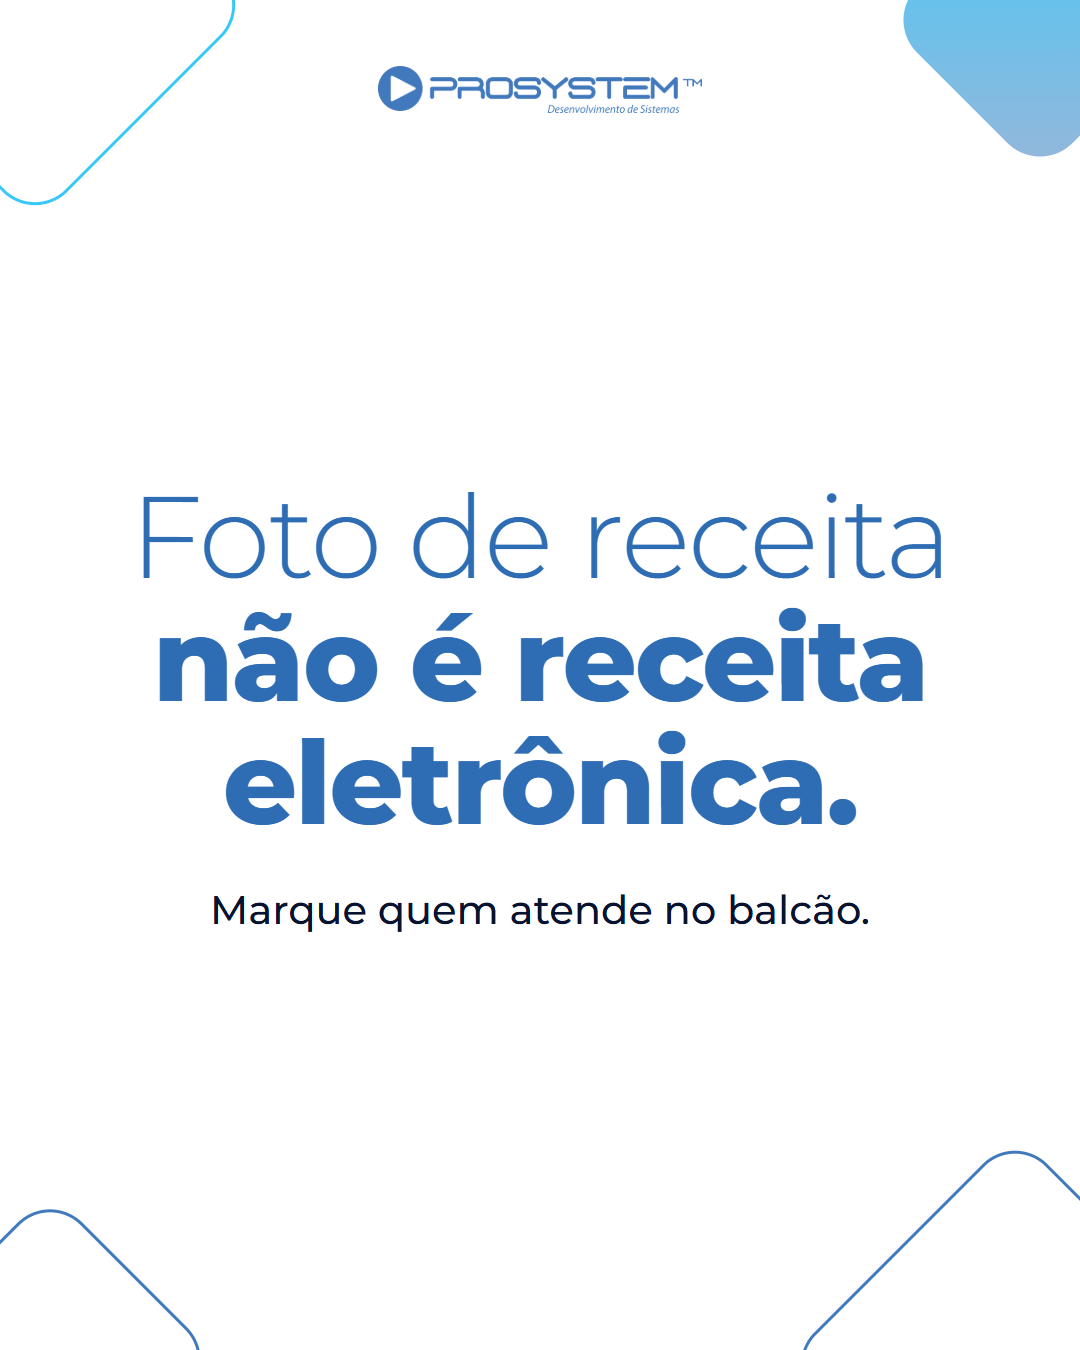
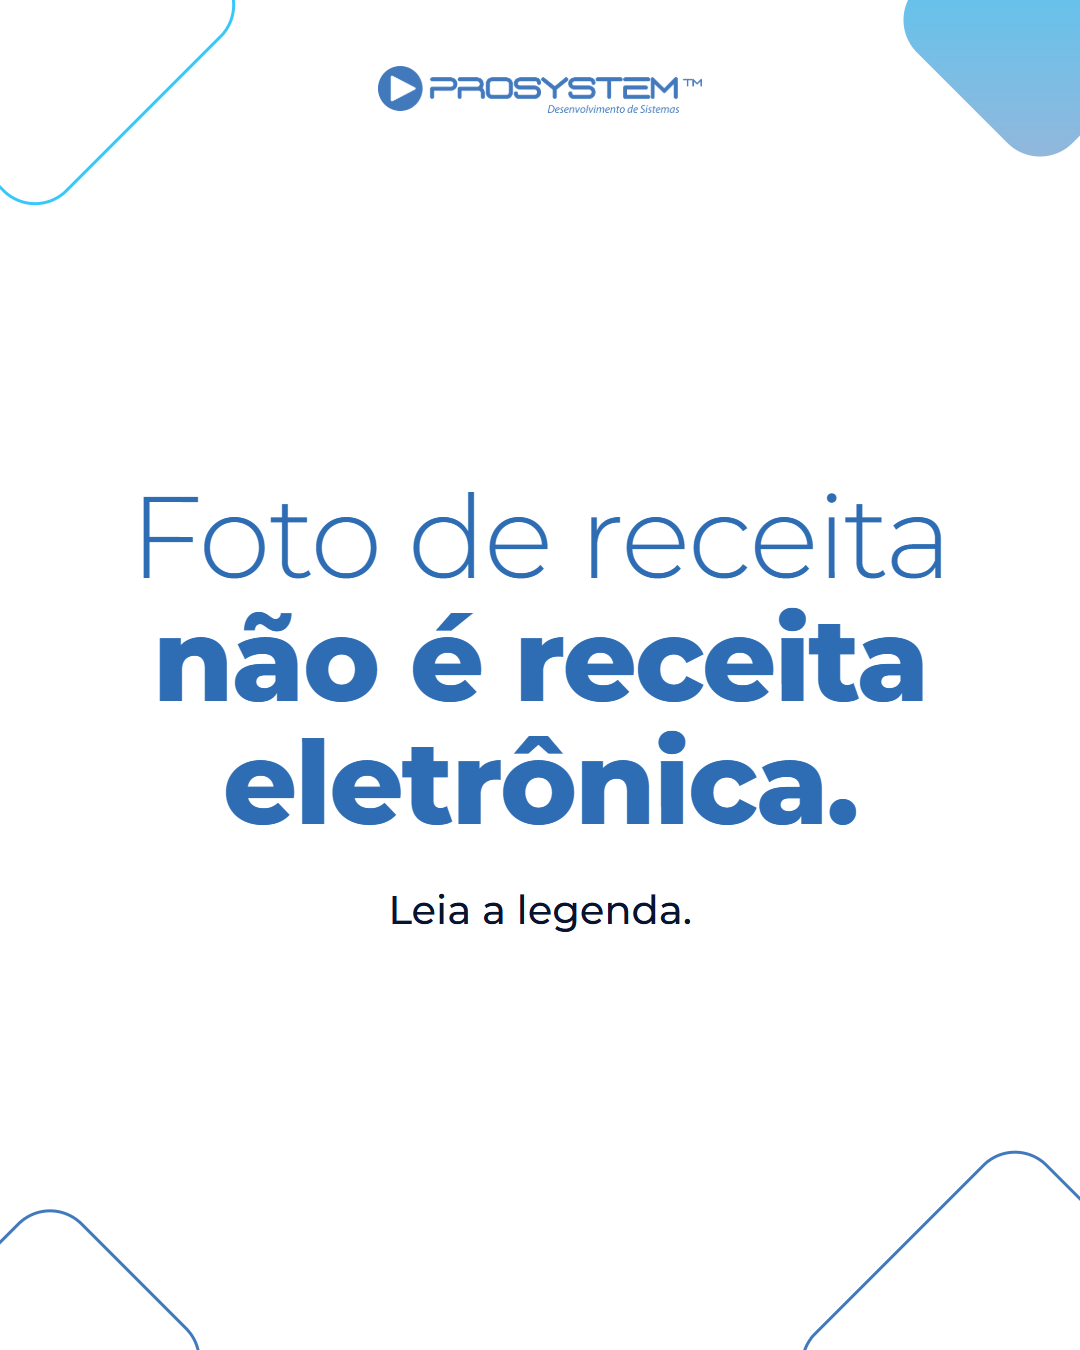
Frase da receita eletrônica (21/12): troca "Marque quem atende no balcão" por "Leia a legenda" na arte

Changed region(s): [[0.1833, 0.6533, 0.7944, 0.6844]]

diff --git a/outputs/criativos/nov-dez/pecas-dados.js b/outputs/criativos/nov-dez/pecas-dados.js
@@ -218,7 +218,7 @@ ${CTA}`,
   conferir: ['Tela de configuração, pouco vendedora: pedir uma com o resultado, sem nomes de remédio.', 'Os números do setor vêm de reportagem; o encarte oficial da ABIP não foi lido.'] },
 
 { data: 'Seg 21/12', seg: 'Farmácia', id: 'frase-farmacia-receita-v1', tipo: 'frase', tema: 'azul', formato: 'Frase de impacto',
-  titulo: 'Foto de receita <b>não é receita eletrônica.</b>', apoio: 'Marque quem atende no balcão.',
+  titulo: 'Foto de receita <b>não é receita eletrônica.</b>', apoio: 'Leia a legenda.',
   kw: 'receita eletrônica na farmácia',
   cap: 'Receita eletrônica na farmácia: foto, digitalização ou PDF feito a partir do papel não vale como receita eletrônica.\n\nE tem mais uma dúvida comum. O SNCR não substitui o SNGPC: um cuida do número e do uso da receita, o outro segue na escrituração. A transição do SNCR vai até 3 de março de 2027.\n\nMarque quem atende no balcão.',
   tags: '#receitaeletronica #sncr #sngpc #farmacia',
